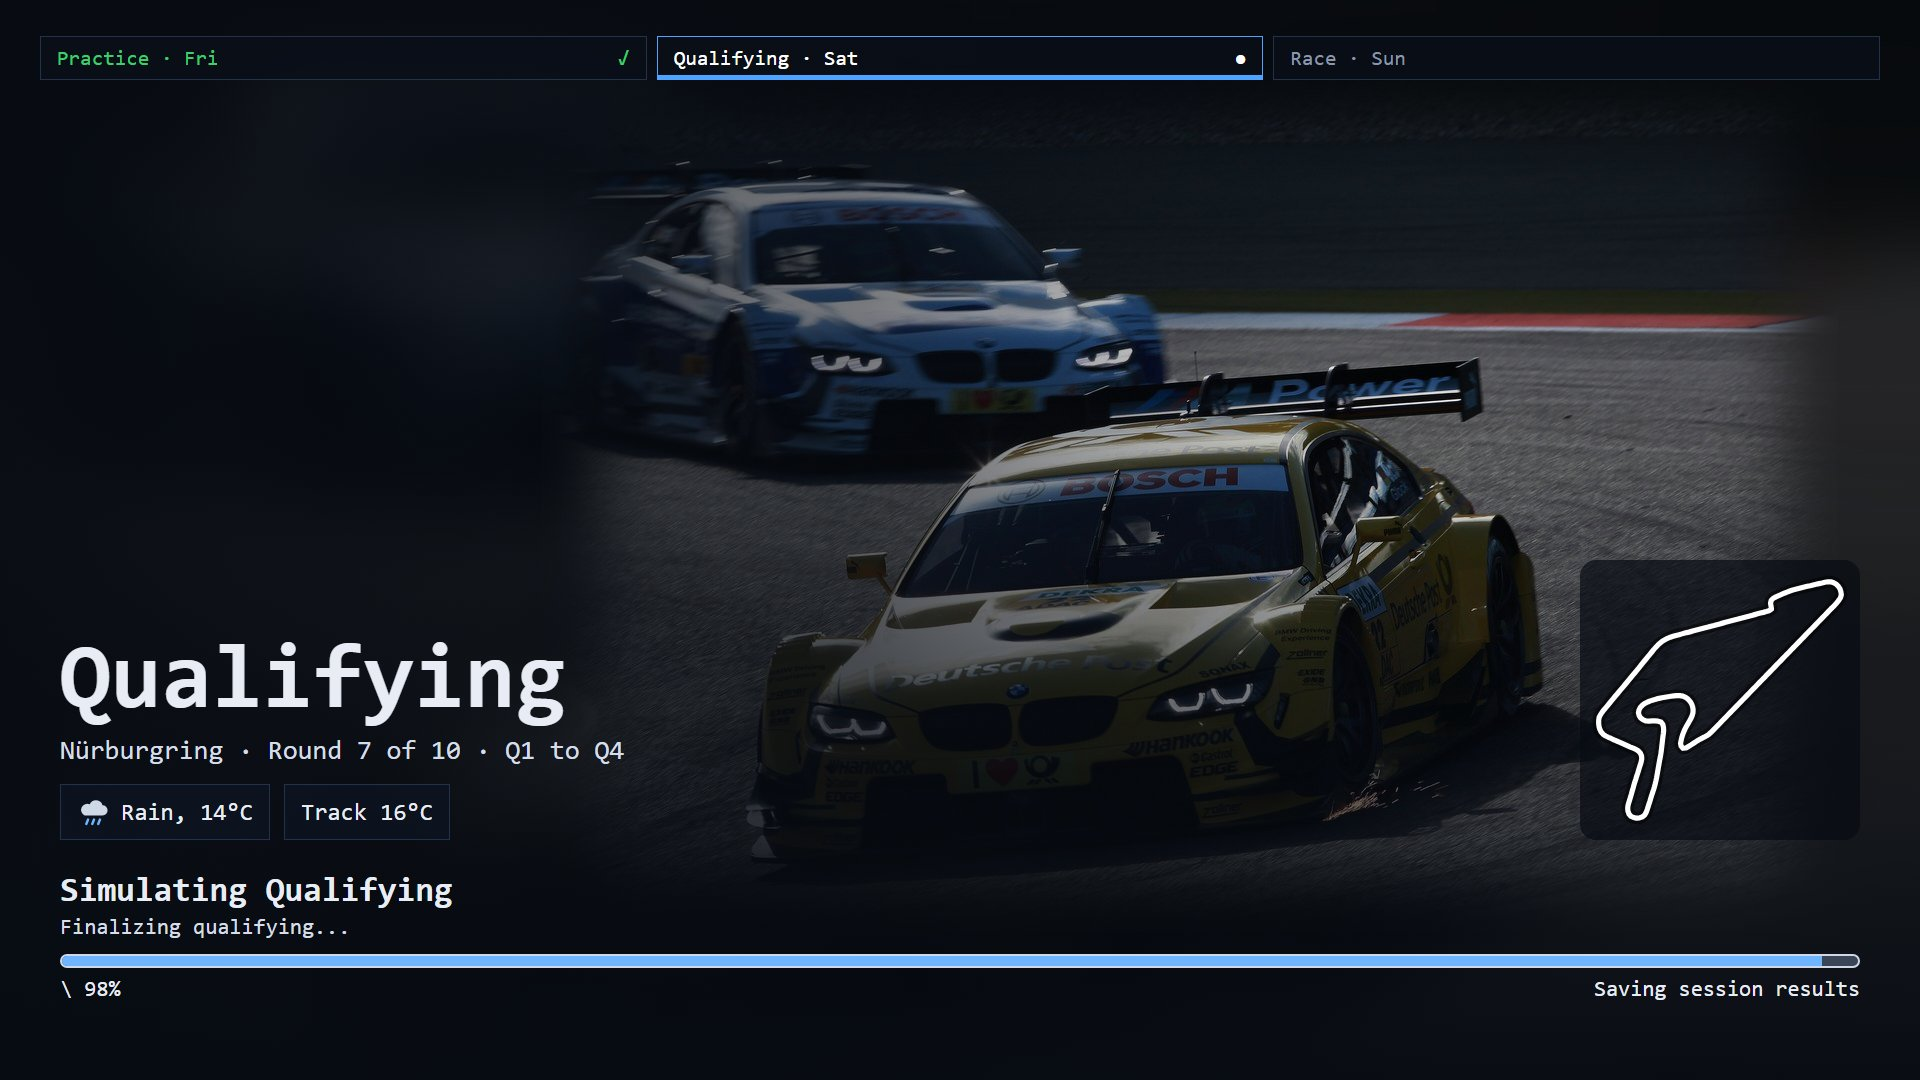
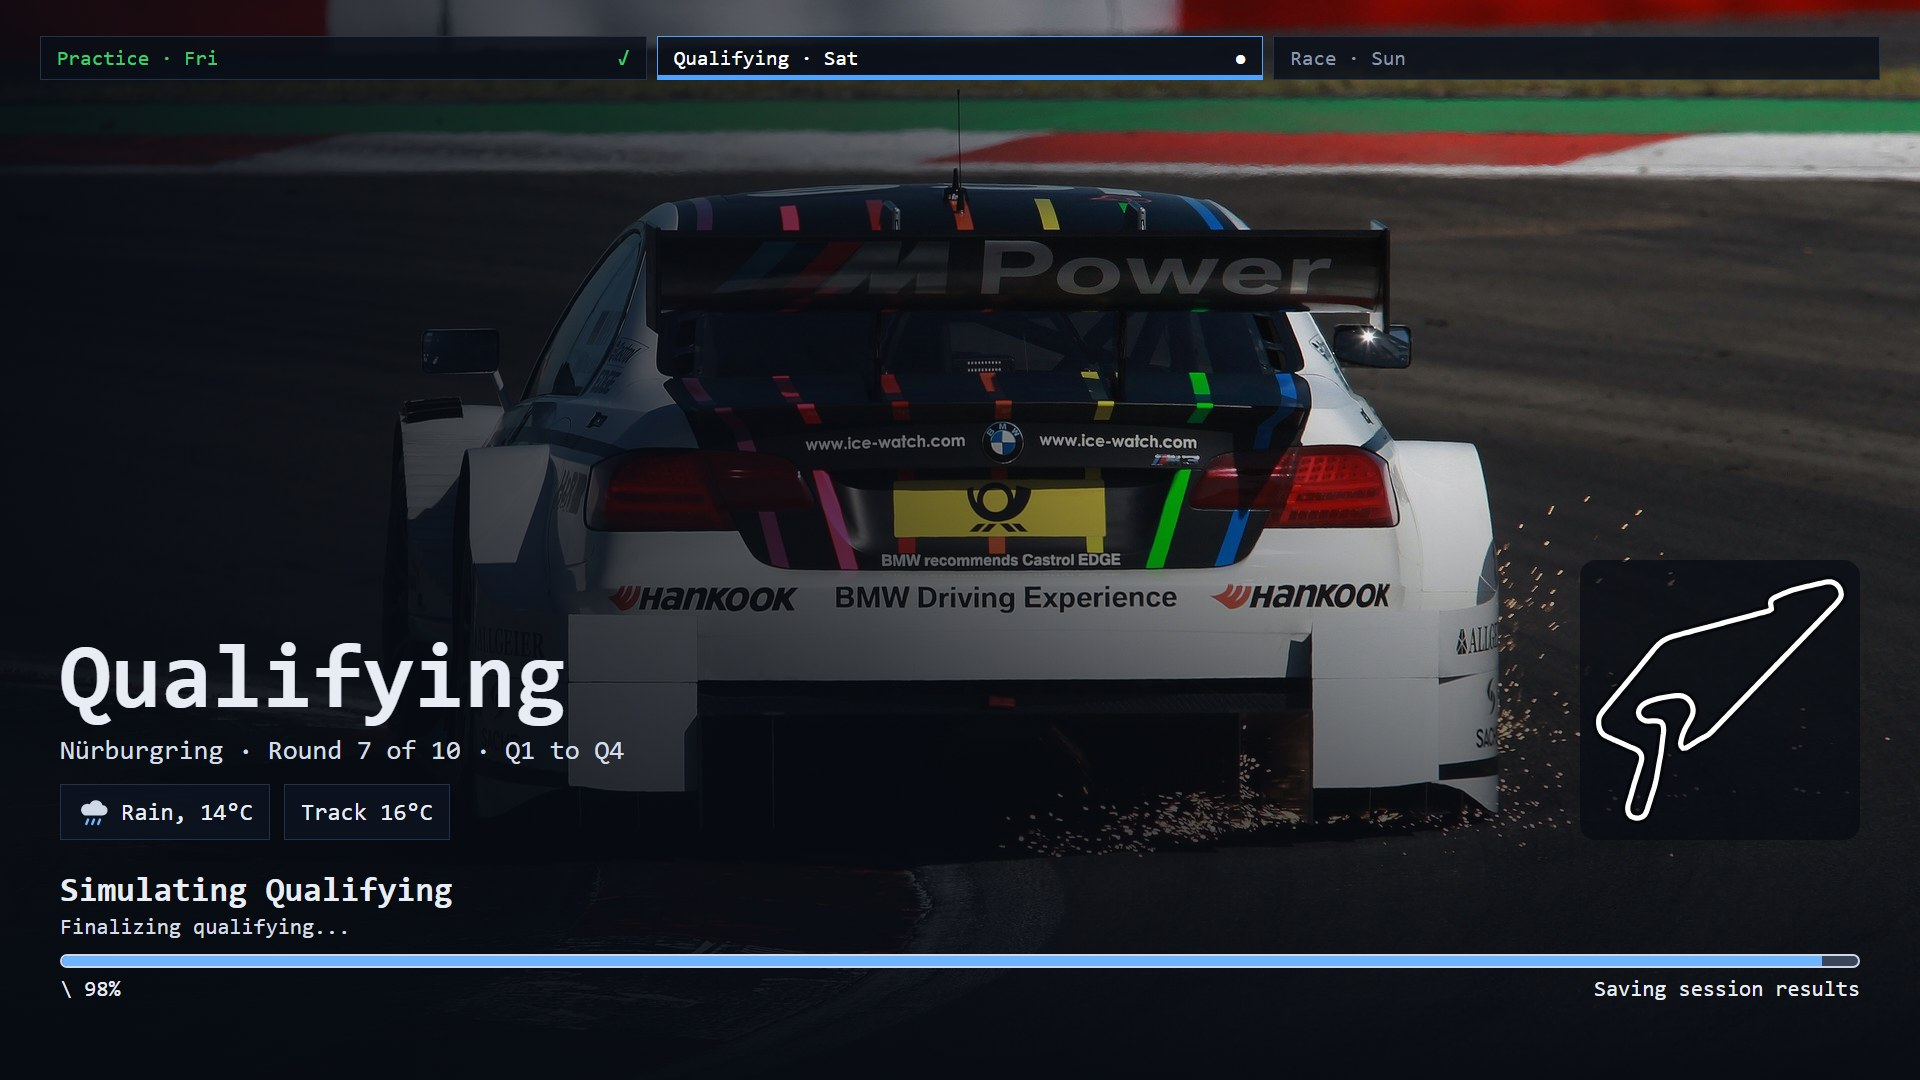
Weekend mock-ups v3, requests E19 and E20, ambience post
- Start of the weekend: no loading bar or travel line, a Start weekend
  button, twelve photo layouts (01a-01l)
- Starting grid from mock-up 25 without portraits, softer boxes (11a-11c)
- End of the weekend by outcome: win and no points (14a-14c)
- Qualifying screens use a 2013 Nurburgring Saturday press photo
- Wish list: E17 names the new screens; new E19 (weekend images per
  team) and E20 (dashboard images in random order)
- Requests: short Discord post for E17, drafts for E19 and E20, the
  ambience request (E9, E11) marked as posted

diff --git a/docs/DEVELOPER_WISHLIST.md b/docs/DEVELOPER_WISHLIST.md
@@ -28,11 +28,11 @@ build them all.
 | dtm-1990 | A1, A6, B1, B2, D1, D9, E1, E2 |
 | dtm-1991 | A1–A6, B1–B4, C1–C5, D1–D4, D9, E1–E7 |
 | dtm-1992 | A1, A6, B2, B3, C1, C2, D1, D9, E1, E2 |
-| dtm-2012 | A3, A5, A6, B5, B7, B12, C4, C6, C7, D1, D3, D5, D6, D7, D8, E1, E2, E4, E5, E6, E8, E9, E12, E13, E15, E18 |
+| dtm-2012 | A3, A5, A6, B5, B7, B12, C4, C6, C7, D1, D3, D5, D6, D7, D8, E1, E2, E4, E5, E6, E8, E9, E12, E13, E15, E18, E20 |
 | dtm-2003 | A5, A6, B4, B5, B7, C2, C4, D1, D3, D7, E1, E2, E8 |
 | dtm-2006 | A6, B1, B2, B5, B7, B10, C2, C4, D1, D3, D7, E1, E2, E8 |
 | dtm-2010 | A3, A5, A6, B5, B7, C2, C4, D1, D3, D7, E1, E2, E8 |
-| dtm-2013 | A3, A5, A6, B5, B6, B7, B12, C4, C6, C7, D1, D3, D4, D5, D6, D7, D8, E1, E2, E4, E5, E6, E8, E9, E10, E11, E12, E13, E14, E15, E17, E18 |
+| dtm-2013 | A3, A5, A6, B5, B6, B7, B12, C4, C6, C7, D1, D3, D4, D5, D6, D7, D8, E1, E2, E4, E5, E6, E8, E9, E10, E11, E12, E13, E14, E15, E17, E18, E19, E20 |
 | dtm-2018 | A1, A4, A6, B5, B6, B8, B9, D1, D3, E1, E2, E18 |
 | dtm-2020 | A1, A3, A4, B4, B5, B6, B8, B12, B13, C1, C4, D1, D3, E1, E2 |
 | f1-2012 | D8, D10, D11, D12, E1, E2 |
@@ -764,7 +764,10 @@ rules to these items:
 - **Request:** an optional per-track override, for example a
   `tracks.<track id>` block in `session_layers.json` (and the race and
   session manifests) that names other files for that venue, falling back
-  to the pack-wide set.
+  to the pack-wide set. This also allows a track announcer in the local
+  language.
+- **Post:** `docs/requests/ambience-per-track.md` (with the drive-by
+  pools of E11).
 
 ### E10. Documented start-sound timing · P3
 - **Needed by:** dtm-2013.
@@ -890,9 +893,13 @@ rules to these items:
   each falling back to a more general one and
   finally to today's screen. Used on the loading screens, the choice
   screens, a short card between sessions, the grid and the results.
+  Two new screens: a start of the weekend (track, round, three-day
+  weather, Start weekend) and an end of the weekend (your team's result
+  and points, picture by outcome).
   Optional: an archive image per track with a year and a caption.
 - **Mockup:** `docs/requests/img/weekend-images/` (19 screens, 2013
-  season). Request text in `docs/requests/weekend-images.md`.
+  season) and `docs/requests/img/weekend-journey/` (a full weekend).
+  Request text in `docs/requests/weekend-images.md`.
 
 ### E18. Separate team logo and team icon · P3
 - **Needed by:** dtm-2012, dtm-2013 (maker emblems as team icons,
@@ -912,6 +919,61 @@ rules to these items:
   (small and square, for tables, standings, timing and lists). With only a
   logo, the game uses it for both, as today, so existing packs keep
   working.
+
+### E19. Weekend images per team · P3
+- **Needed by:** dtm-2013 (and every season with team photos).
+- **Why:** the player follows one team all season. A photo of their own
+  cars at this track says "this is my weekend" far more than a general
+  track photo. Teams also have their own photos: the pit crew, the
+  garage, their cars on the grid. Packs often have such photos with the
+  team's permission.
+- **Today:** no images on the weekend screens (E17). The dashboard has one
+  background photo per pack, the same for every team.
+- **Request:** let a team override the weekend images of E17. The game
+  looks for a picture in this order:
+  1. the player's team, this track, this session
+  2. the player's team, this session (any track)
+  3. this track, this session (E17)
+  4. the pack, this session (E17)
+  5. today's screen without a picture
+  The same works for the start of the weekend, the result pictures (win,
+  podium, points, no points, retired) and the dashboard background. Each
+  entry can hold several pictures; the game picks one at random. A team
+  without its own pictures sees the pack's pictures, so nothing changes
+  for packs that don't use it.
+
+  ```json
+  "weekend_images": {
+    "race": ["race.jpg"],
+    "nuerburgring13": { "race": ["nbr_start.jpg"] },
+    "teams": {
+      "bmw_mtek": {
+        "dashboard": ["mtek_garage.jpg"],
+        "race": ["mtek_grid.jpg"],
+        "nuerburgring13": { "qualifying": ["mtek_nbr_quali.jpg"] },
+        "results": { "win": ["mtek_win.jpg"], "retired": ["mtek_garage.jpg"] }
+      }
+    }
+  }
+  ```
+- **Mockup:** `docs/requests/img/weekend-journey/` (BMW Team MTEK at the
+  Nürburgring). The qualifying screens there show Wittmann's MTEK car;
+  with this item a pack could show it to MTEK players only and a neutral
+  track photo to everyone else.
+
+### E20. Dashboard images in random order · P3
+- **Needed by:** dtm-2013, dtm-2012 (every pack with several dashboard
+  images).
+- **Why:** a pack or team set has several dashboard pictures, but the
+  player mostly sees the first one. It gets dull over a long career.
+- **Today:** the dashboard moves through `dashboard_bg<N>.png` (and the
+  team sets in `assets/dashboard_bgs/`) in number order, always starting
+  with image 1.
+- **Workaround:** put the favourite picture in slot 1.
+- **Request:** an optional setting, for example
+  `"dashboard_order": "random"`, that starts at a random image or
+  shuffles the set. Without it the order stays as today.
+- **Post:** `docs/requests/dashboard-random-order.md`.
 
 ---
 

diff --git a/docs/requests/weekend-images.md b/docs/requests/weekend-images.md
@@ -2,42 +2,26 @@
 
 - **Status:** draft, not posted
 - **Wishlist:** E17
-- **Attach:** pick from `img/weekend-images/` (suggested: 01, 02, 13, 05, 07, 10)
-- **Length:** about 1,500 characters (Discord limit 2,000)
+- **Attach:** from `img/weekend-journey/`: 01g, 02, 06, 11a, 12, 14a, 14c (7 images)
+- **Length:** about 1,000 characters (Discord limit 2,000)
 
 ---
 
 ## Feature request: pictures for the race weekend
 
-Hey! One more from the DTM packs, this time about the race weekend.
+Hey! One more from the DTM packs, about the race weekend.
 
-The team dashboard already shows a photo behind the panels, and it makes a big difference. The weekend itself has no pictures: the loading screens are a progress bar on black, Simulate / Take Part are two grey boxes, and the results are tables only.
+The dashboard already shows a photo, and it makes a big difference. The weekend itself has none: practice, qualifying and the race are grey boxes and tables.
 
-So my idea: **a pack can add images to the weekend, and the game picks the one that fits.**
+My idea: **a pack can add pictures to the weekend screens.**
 
-- **Session screens:** practice, qualifying and race show a picture of the track, with the session, track, weather and track outline. The same screen is used to choose and while simulating. The game already knows all of these.
-- **Between sessions:** a short card from the result, for example "Rockenfeller takes pole", with portrait and car.
-- **Results for your team:** the picture follows how your team did: win, podium, points, no points or retired.
-- **Optional archive:** an older picture of the track with the year and a caption.
+- **Practice, qualifying, starting grid, race:** a photo behind each screen. Buttons, progress bar and tables stay as they are.
+- **New: start of the weekend.** One screen when the race week begins: track, round, weather for the three days, and "Start weekend".
+- **New: end of the weekend.** One screen after the race with your team's result and points. The picture follows the outcome: win, podium, points, no points or retired.
 
-Each picture falls back: the track's picture for that session, then one pack picture for that session, then today's screen without a picture. Packs without images look exactly as today.
+A pack gives one picture per session, and can add one per track. Several pictures per slot, the game picks one. No picture means today's screen, so old packs don't change.
 
-```json
-"weekend_images": {
-  "practice": ["practice.jpg"],
-  "qualifying": ["qualifying.jpg"],
-  "race": ["race.jpg"],
-  "nuerburgring13": {
-    "practice": ["nbr_practice.jpg"],
-    "qualifying": ["nbr_quali.jpg"],
-    "race": ["nbr_start.jpg"],
-    "archive": [{ "file": "nbr_1987.jpg", "year": 1987, "caption": "..." }]
-  },
-  "results": { "win": ["win.jpg"], "no_points": ["meh.jpg"], "retired": ["garage.jpg"] }
-}
-```
-
-Mock-ups for the 2013 season are attached. What do you think?
+Mock-ups from our 2013 pack are attached (BMW Team MTEK at the Nürburgring). What do you think?
 
 ---
 

diff --git a/docs/requests/weekend-images-per-team.md b/docs/requests/weekend-images-per-team.md
@@ -1,0 +1,48 @@
+# Weekend images per team
+
+- **Status:** draft, not posted
+- **Wishlist:** E19 (builds on E17)
+- **Post after:** [Weekend images: track, session and result](weekend-images.md). This one only makes sense once that idea is known.
+- **Attach:** `img/weekend-journey/01g-start-race-start.jpg`, `img/weekend-journey/06-qualifying.jpg`
+- **Length:** about 1,300 characters (Discord limit 2,000)
+
+---
+
+## Feature request: weekend images per team
+
+Hey! A small follow-up to the weekend images idea.
+
+You play one team for a whole season. A photo of **your own cars** at this track makes the weekend feel like yours, much more than a general track photo. Teams also have their own pictures: the crew, the garage, their cars on the grid. Packs often have these with the team's permission.
+
+So my idea: **a team can replace the pack's weekend pictures.** If you play BMW Team MTEK, you see MTEK photos. Every other team sees the pack's track photos.
+
+The game looks for a picture in this order:
+1. your team, this track, this session
+2. your team, this session (any track)
+3. this track, this session
+4. the pack, this session
+5. today's screen without a picture
+
+This would work for the session screens, the start of the weekend, the result pictures (win, podium, points, no points, retired) and the dashboard background. Several pictures per entry, the game picks one. A team without its own pictures sees the pack's, so nothing changes for packs that don't use it.
+
+```json
+"weekend_images": {
+  "race": ["race.jpg"],
+  "teams": {
+    "bmw_mtek": {
+      "dashboard": ["mtek_garage.jpg"],
+      "race": ["mtek_grid.jpg"],
+      "results": { "win": ["mtek_win.jpg"] }
+    }
+  }
+}
+```
+
+Two screens from the 2013 mock-ups are attached. What do you think?
+
+---
+
+## Notes
+
+- The attached qualifying screen uses a BMW press photo from the real qualifying day (17 Aug 2013): Wittmann's MTEK car from behind. With this idea, a pack could show it to MTEK players only and a neutral track photo to everyone else.
+- Team ids in the example follow the pack's team ids. The real key would be whatever the game uses for teams.

diff --git a/docs/requests/ambience-per-track.md b/docs/requests/ambience-per-track.md
@@ -1,0 +1,38 @@
+# Ambience per track and drive-by pools
+
+- **Status:** posted 14 Nov 2026 (no link yet)
+- **Wishlist:** E9 (ambience per track), E11 (drive-by pools, its second request)
+- **Attach:** nothing needed
+- **Length:** about 1,000 characters (Discord limit 2,000)
+
+---
+
+## Feature request: ambience per track + drive-by pools
+
+Hey! Two small audio wishes that would add a lot of variety.
+
+**Ambience per track**
+Right now every round plays the same crowd and track sound. But Monaco between the walls sounds nothing like the open spaces of Monza. A track announcer who speaks the local language would make it even more authentic.
+
+An optional per-track set in `session_layers.json` would be nice, falling back to the default set:
+```json
+"tracks": {
+  "monaco": { "crowd": ["monaco_crowd.ogg"], "announcer": ["monaco_pa_fr.ogg"] }
+}
+```
+
+**Drive-by pools**
+`passby_audio` takes one clip per engine supplier. So every car of that make sounds exactly the same, and two of them close together sound like one car. A list of clips per supplier, picked at random per car, would fix that:
+```json
+"passby_audio": ["audi_passby_1", "audi_passby_2", "audi_passby_3"]
+```
+
+Both are optional, so packs without them sound like now. Happy to record and test sets for the DTM packs!
+
+---
+
+## Notes
+
+- Monaco and Monza are the examples because the developer knows the F1 tracks. The DTM case (Norisring vs. Lausitzring) is in E9.
+- The JSON keys in the ambience example are made up. The real layer names come from `session_layers.json`.
+- Ideas dropped from this post, maybe for a later one: dashboard images in random order (E20), more than one title screen, photo credits on screen, track facts at the start of the weekend, pack tips while loading, a season intro.

diff --git a/docs/requests/dashboard-random-order.md b/docs/requests/dashboard-random-order.md
@@ -1,0 +1,31 @@
+# Dashboard images in random order
+
+- **Status:** draft, not posted
+- **Wishlist:** E20
+- **Attach:** nothing needed
+- **Length:** about 700 characters (Discord limit 2,000)
+
+---
+
+## Feature request: dashboard images in random order
+
+Hey! A small one this time.
+
+A pack (or a team) can have several dashboard pictures, which is great. But the dashboard always starts with image 1, so that's the one I see most of the time. Over a long career it gets a bit dull, and the other pictures hardly show up.
+
+My idea: **an optional setting to show them in random order.**
+
+```json
+"dashboard_order": "random"
+```
+
+The game would start with a random image, or shuffle the whole set. Either works for me. It would apply to `dashboard_bg<N>.png` and to the team sets in `assets/dashboard_bgs/`. Without the setting, everything stays as it is now.
+
+What do you think?
+
+---
+
+## Notes
+
+- How it works today is in `docs/CAPABILITIES.md` (dashboard rows): the game moves through the images in number order.
+- A follow-up could be the same for `title_bg` (several title screens, one picked at start). Left out to keep this post short.

diff --git a/docs/requests/README.md b/docs/requests/README.md
@@ -12,6 +12,9 @@ Status: `draft` (not posted yet), `posted` (with date and link), `answered`.
 | [Track art styles the player picks](track-art-styles.md) | E16 | draft |
 | [More car liveries, more often](car-liveries.md) | E4, E15 | posted |
 | [Weekend images: track, session and result](weekend-images.md) | E17 | draft |
+| [Weekend images per team](weekend-images-per-team.md) | E19 | draft |
+| [Ambience per track and drive-by pools](ambience-per-track.md) | E9, E11 | posted |
+| [Dashboard images in random order](dashboard-random-order.md) | E20 | draft |
 | [Ten more ideas for immersion](immersion-ideas.md) | none yet | ideas |
 
 All mock-ups in one gallery: https://claude.ai/artifact/6cjkA3ucBe1gM5gB3WPemN (private).
